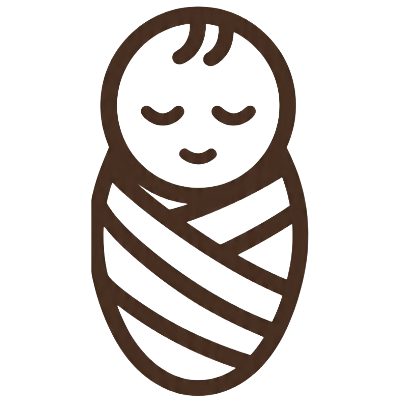
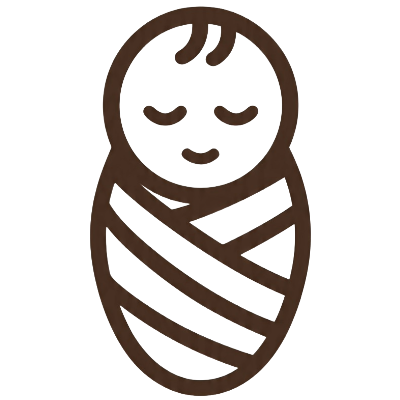
cha

diff --git a/services/index.html b/services/index.html
@@ -30,6 +30,7 @@
         <section class="sp-services">
             <h1>Our Services</h1>
             <div class="gallery">
+                    <a href="on-location/">
                 <div class="gallery-item">
                     <img src="../images/on-location/COVER PIC.jpg" alt="On Location Photography">
                     <div class="gallery-item-info">
@@ -37,20 +38,34 @@
                         <p>Capturing the beauty of your moments in natural settings.</p>
                     </div>
                 </div>
+                </a>
+                <a href="studio/">
                 <div class="gallery-item">
-                    <img src="../images/services2.jpg" alt="Portrait Photography">
+                    <img src="../images/studio/-5.jpg" alt="Studio Photography">
                     <div class="gallery-item-info">
-                        <h3>Event Photography</h3>
-                        <p>Documenting the energy and excitement of your events.</p>
+                        <h3>Studio Photography</h3>
+                        <p>Creating stunning images in our professional studio environment.</p>
                     </div>
                 </div>
+                </a>
+                <a href="newborn/">
                 <div class="gallery-item">
-                    <img src="../images/services3.jpg" alt="Event Photography">
+                    <img src="../images/newborn/COVER PICTURE.jpg" alt="Newborn Photography">
                     <div class="gallery-item-info">
-                        <h3>Commercial Photography</h3>
-                        <p>Showcasing your products in the best light.</p>
+                        <h3>Newborn Photography</h3>
+                        <p>Capturing the precious moments of your little ones.</p>
                     </div>
                 </div>
+                </a>
+                <a href="milestone/">
+                <div class="gallery-item">
+                    <img src="../images/milestone/-0-COVER PICTURE.jpg" alt="Milestone Photography">
+                    <div class="gallery-item-info">
+                        <h3>Milestone Photography</h3>
+                        <p>Documenting the significant milestones in your life.</p>
+                    </div>
+                </div>
+                </a>
                 <!-- Add more gallery items as needed -->
             </div>
         </section>

diff --git a/index.html b/index.html
@@ -49,33 +49,39 @@
                 <div class="transparent-line"></div>
                 <a href="services/on-location">
                     <div class="service-item">
-                    <img src="images/on-location-icon.webp" alt="on location icon">
+                    <img src="images/on-location/COVER PIC.jpg" alt="on location icon">
                         <h3>On Location Photography</h3>
                         <div class="line"></div>
                         <p>Capturing the beauty of the world through thoughtful composition and lighting.</p>
                     </div>
                 </a>
                 <div class="divider"></div>
+                <a href="services/studio">
                 <div class="service-item">
                     <img src="images/studio-icon.webp" alt="studio icon">
                     <h3>Studio Photography</h3>
                     <div class="line"></div>
                     <p>Creating stunning images in a controlled environment with precise lighting and composition.</p>
                 </div>
+                </a>
                 <div class="divider"></div>
+                    <a href="services/newborn">
                 <div class="service-item">
                     <img src="images/newborn-icon.webp" alt="Newborn-icon">
                     <h3>Newborn Photography</h3>
                     <div class="line"></div>
                     <p>Capturing the precious moments of newborns and their families with gentle and artistic approach.</p>
                 </div>
+                </a>
                 <div class="divider"></div>
+                    <a href="services/milestone">
                 <div class="service-item">
                     <img src="images/milestone-icon.webp" alt="milestone icon">
                     <h3>Milestone Photography</h3>
                     <div class="line"></div>
                     <p>Capturing the important moments and achievements in people's lives with thoughtful composition and lighting.</p> 
                 </div>
+                </a>
                 <div class="transparent-line"></div>
             </div>
         </div>

diff --git a/services/on-location/index.html b/services/on-location/index.html
@@ -3,7 +3,7 @@
 <head>
     <meta charset="UTF-8">
     <meta name="viewport" content="width=device-width, initial-scale=1.0">
-    <title>sifra studio | About</title>
+    <title>sifra studio | On Location</title>
     <link rel="stylesheet" href="../../styles.css">
     <link rel="icon" href="../../images/favicon.webp">
     <link rel="preconnect" href="https://fonts.googleapis.com">
@@ -28,6 +28,21 @@
     </header>
         <main>
             <div class="on-location gallery">
+                <div class="gallery-item">
+                    <img src="../../images/on-location/-1.webp" alt="On Location Photography">
+                </div>
+                <div class="gallery-item">
+                    <img src="../../images/on-location1.jpg" alt="On Location Photography">
+                </div>
+                <div class="gallery-item">
+                    <img src="../../images/on-location1.jpg" alt="On Location Photography">
+                </div>
+                <div class="gallery-item">
+                    <img src="../../images/on-location1.jpg" alt="On Location Photography">
+                </div>
+                <div class="gallery-item">
+                    <img src="../../images/on-location1.jpg" alt="On Location Photography">
+                </div>
                 <div class="gallery-item">
                     <img src="../../images/on-location1.jpg" alt="On Location Photography">
                 </div>

diff --git a/styles.css b/styles.css
@@ -463,7 +463,7 @@ main {
 
 .sp-services .gallery {
     display: grid;
-    grid-template-columns: repeat(3, minmax(0, 1fr));
+    grid-template-columns: repeat(2, minmax(0, 1fr));
     gap: 1.5rem;
     margin-top: 1.75rem;
 }
@@ -977,4 +977,29 @@ a:hover button {
 .thank-you-card p {
     font-size: 1.2rem;
     margin-bottom: 1rem;
+}
+
+/* styles for the on location page */
+.on-location {
+    width: min(95%, 1180px);
+    margin: 4rem auto 2rem;
+    text-align: left;
+}
+
+.on-location .gallery-item {
+    position: relative;
+    overflow: hidden;
+    border-radius: 24px;
+    min-height: 320px;
+    max-height: 5rem;
+    background-color: #f7ece7;
+    box-shadow: 0 18px 38px rgba(34, 24, 20, 0.12);
+}
+
+.on-location .gallery-item img {
+    height: 100%;
+    object-fit: cover;
+    display: block;
+    transition: transform 0.45s ease;
+
 }

diff --git a/services/milestone/index.html b/services/milestone/index.html
@@ -3,7 +3,7 @@
 <head>
     <meta charset="UTF-8">
     <meta name="viewport" content="width=device-width, initial-scale=1.0">
-    <title>sifra studio | About</title>
+    <title>sifra studio | Milestone</title>
     <link rel="stylesheet" href="../../styles.css">
     <link rel="icon" href="../../images/favicon.webp">
     <link rel="preconnect" href="https://fonts.googleapis.com">

diff --git a/services/newborn/index.html b/services/newborn/index.html
@@ -3,7 +3,7 @@
 <head>
     <meta charset="UTF-8">
     <meta name="viewport" content="width=device-width, initial-scale=1.0">
-    <title>sifra studio | About</title>
+    <title>sifra studio | Newborn</title>
     <link rel="stylesheet" href="../../styles.css">
     <link rel="icon" href="../../images/favicon.webp">
     <link rel="preconnect" href="https://fonts.googleapis.com">

diff --git a/services/studio/index.html b/services/studio/index.html
@@ -3,7 +3,7 @@
 <head>
     <meta charset="UTF-8">
     <meta name="viewport" content="width=device-width, initial-scale=1.0">
-    <title>sifra studio | About</title>
+    <title>sifra studio | Studio</title>
     <link rel="stylesheet" href="../../styles.css">
     <link rel="icon" href="../../images/favicon.webp">
     <link rel="preconnect" href="https://fonts.googleapis.com">
